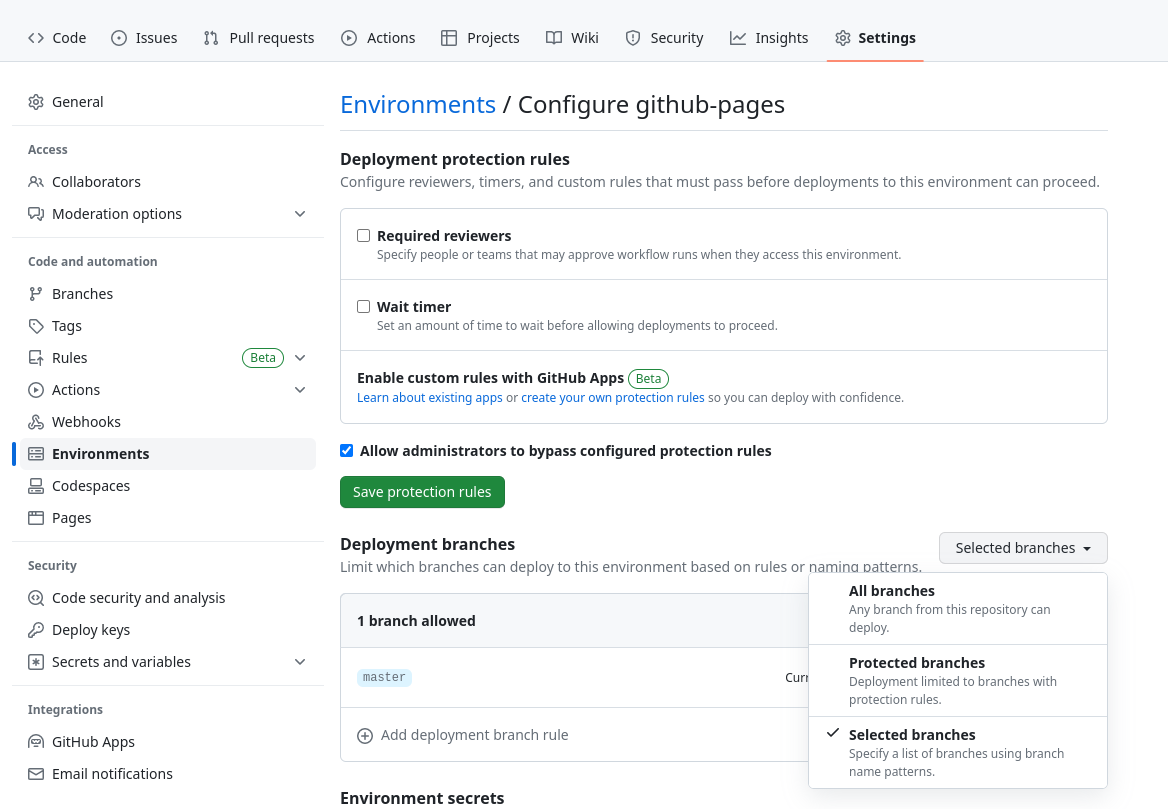
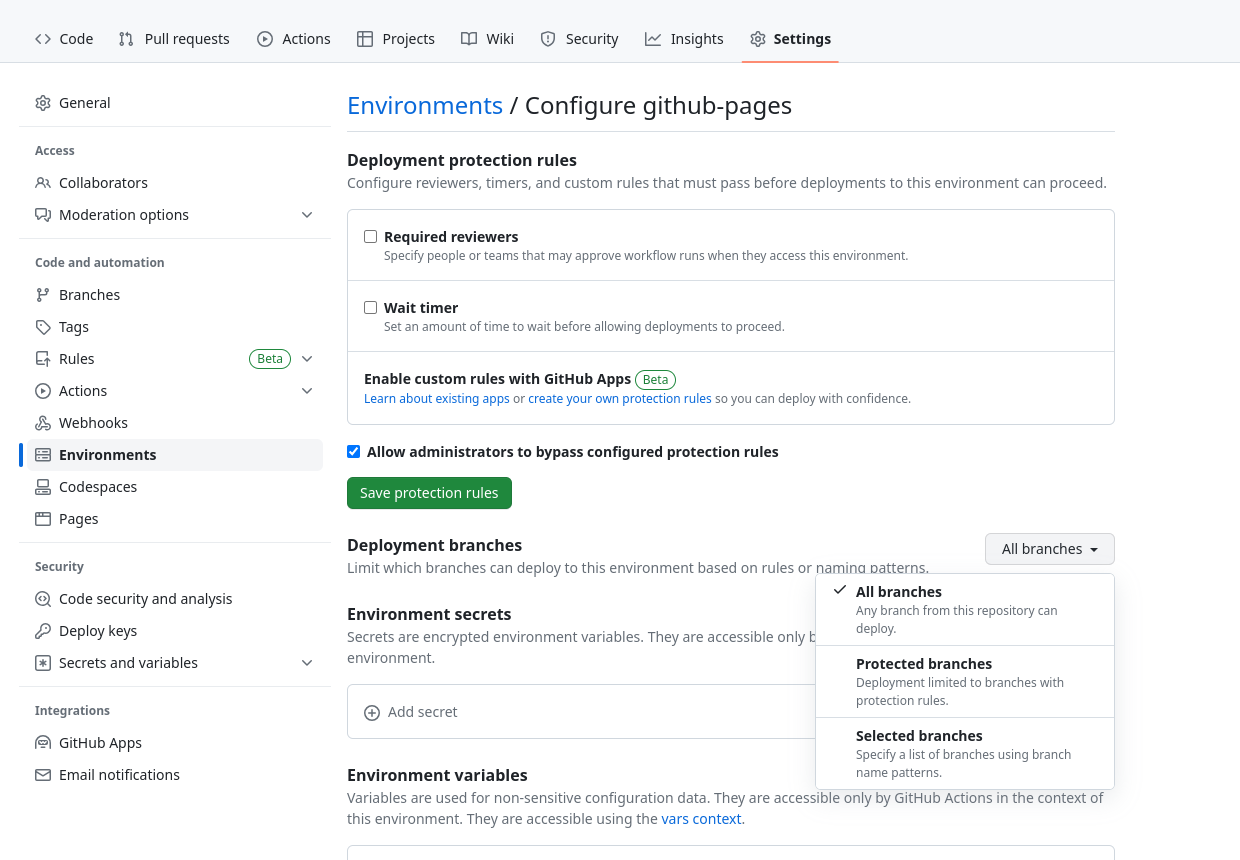
fixing the wording per PR comments...

diff --git a/faq/howto-author-hack.md b/faq/howto-author-hack.md
@@ -9,10 +9,10 @@ In essence a gHack needs to satisfy the following criteria.
 1. A gHack consists of **multiple, cumulative, hands-on challenges** building on top of each other
    > Think of a story consisting of multiple steps, starting with simple tasks and getting more advanced/detailed as the challenges progress. A gHack should provide value even if the participants don't get to solve all challenges.
 1. Challenges are small puzzles to be solved by participants **without step-by-step instructions, screenshots or any other copy/paste** content provided
-   > Solving the challenges means satisfying the *Success Criteria* described for the challenge. Remember there's no single golden path to solve these challenges, participants are free to come up with their own solutions as long as success criteria are met. The challenges shouldn't be trick questions as we don't want to frustrate participants. And finally, try to stay away from *coding from scratch* challenges, those are time consuming and don't provide too much value. Stick to configuring services (either through CLI, console, config files) or incomplete configuration/code sources (fix a trivial issue, add a single line to a file etc.)
-1. The gHack concept is **designed for teams**, the idea is solve the challenges as a team
-   > Although it's technically possible to do a gHack individually, we think that running those as teams provides the most value as the challenges require diverse set of skills so that people can also learn from each other. Make sure that during the event every participant gets to *drive* at least once.
-1. Every team needs to be **accompanied by a coach during the event**
+   > Solving the challenges means satisfying the *Success Criteria* described for the challenge. Remember there's no single golden path to solve these challenges, participants are free to come up with their own solutions as long as success criteria are met. The challenges shouldn't be trick questions as we don't want to frustrate participants. And finally, try to stay away from *coding from scratch* challenges, those are time consuming and don't provide much value. Stick to configuring services (either through the CLI, console, config files) or incomplete configuration/code sources (e.g. fix a trivial issue, add a single line to a file etc.)
+1. The gHack concept is **designed for teams**, the idea is solve the challenges together, as a team
+   > Although it's technically possible to do a gHack individually, we think that running those as teams provides the most value as the challenges require a diverse set of skills so that people can also learn from each other. Make sure that during the event every participant gets to *drive* at least once.
+1. Every team will be **accompanied by a coach** during the event
    > Sometimes teams might struggle to find the right solution; at those moments it's quite important to have someone who's done it before to give some hints, not the solution, but a direction, to prevent people from getting frustrated.
 
 ## Getting Started
@@ -88,7 +88,7 @@ The default configuration for Github Pages only works with the *main* branch. If
 
 ![Screenshot for environments](images/author-pages-environments.png)
 
-Now you can just either remove the protections, add specific branches or enable *Pages* for _All branches_.
+In the 'Deployment Branches' section, click the *Selected branches* dropdown and choose: *All branches*
 
 ![Screenshot for branch protection](images/author-pages-branch-protection.png)
 
@@ -110,7 +110,7 @@ Once everything is fine with your hack and you want to contribute to the origina
 ```shell
 git fetch upstream
 git switch new-iot-hack  # or main if you're not using branches
-git rebase upstream/main
+git rebase upstream main
 ```
 
 If you get any conflicts you'll need to resolve those and commit your changes. Then you can push your changes to your origin. Since rebasing changes the Git history, you will need to force push your changes. 
@@ -140,11 +140,11 @@ git pull --ff-only --prune upstream main
 If something goes wrong with rebasing (getting warnings about divergent set of commits), and you're confident that the remote is correct you can always reset to that. This typically happens if you've rebased things on the Github website, but your local doesn't have the rebased commits, you'll see that you're *n* commits behind and *m* commits ahead, and a message about the divergent set of commits. In that case try the following command
 
 ```shell
-git reset --hard origin/new-iot-hack  # or any other branch that you want to sync to
+git reset --hard origin new-iot-hack  # or any other branch that you want to sync to
 ```
 
 > **Warning**  
-> Here be dragons! Resetting your branch this way will remove all commits that you have locally on that branch, and will get whatever is in the remote branch. If that's the leading then fine, otherwise, you'll have to fix things first.
+> Here be dragons! Resetting your branch this way will remove all commits that you have locally on that branch, and will get whatever is in the remote branch. As long as that's what you want or need, resetting is fine.
 
 ## GCP Project Setup
 
@@ -152,17 +152,19 @@ Some hacks will need certain resources to be created in GCP projects, before the
 
 By default the scaffolding process creates empty placeholders for the Terraform configuration. You can edit those anyway you want to create the things required for your hack.
 
-We've documented how to use these Terraform scripts in [How to Setup Your Environment](howto-setup-environment.md).
+For the participants, we've documented how to use these Terraform scripts in [How to Setup Your Environment](howto-setup-environment.md) as that's part of the event.
 
 ### Customer Sandboxes
 
 Our preferred option for hosting gHacks is through sandbox projects provided by the customers. Every team should have their own dedicated sandbox project, with `Owner` permissions for every team member (3-5 users). Ideally, these projects should be set up ahead of the event, and *Terraform* scripts should've been run. In addition, having a default network, with standard firewall rules to allow communication within the subnets would make sure that things are consistent with other environments.
 
+See [Event Preparation](howto-host-hack.md#event-preparation) details to ensure that the everything is aligned with the stakeholders in a timely fashion.
+
 ### Qwiklabs
 
-As mentioned in the previous section we'd like gHacks to be executed in customer environments. That way the resources created can stay behind and people can carry on even after the event. However, we're aware of the challenges of getting sandboxes available at customers, so gHacks are supported on a special Qwiklabs instance.
+As mentioned in the previous section we'd like gHacks to be executed in customer environments. That way the resources created can stay behind and people can carry on even after the event. However, we're aware of the challenges of getting sandboxes available at customers, so gHacks are supported on a **special Qwiklabs instance** available on [go/ceqwiklabs](http://go/ceqwiklabs), where we can create our own labs and host events.
 
-By default when a gHack is included in the official repository a new Qwiklabs lab is created in the special Qwiklabs instance. 
+By default when a gHack is included in the official repository a new Qwiklabs lab is created in this special Qwiklabs instance. 
 
 If you don't need anything special, the default Qwiklabs lab configuration `qwiklabs.yaml`, provided by the scaffolding tool, should be sufficient. If you need to edit that file, make sure that you've read the document available on [go/ql-scripts](http://go/ql-scripts).
 
@@ -170,7 +172,8 @@ If you don't need anything special, the default Qwiklabs lab configuration `qwik
 
 The Terraform scripts in the `artifacts` directory of your hack will be automatically executed when the labs start.
 
-At the moment Qwiklabs only support Terraform **1.0.1**, so make sure that your Terraform configuration only uses capabilities available for that version. Note that you can still use the latest version of the GCP providers, this only applies to the Terraform version used.
+> **Warning**  
+> At the moment Qwiklabs only support Terraform **1.0.1**, so make sure that your Terraform configuration only uses capabilities available for that version. Note that you can still use the latest version of the GCP providers, this only applies to the Terraform version used.
 
 The Terraform configuration when used by Qwiklabs has some pre-requisites. You'll need to make sure that your configuration includes the following variables, even if you don't use them!
 
@@ -190,13 +193,18 @@ It's also possible to create labs directly in the special Qwiklabs instance to t
 
 ### Argolis
 
-You can't use Argolis projects for customers (unless you're doing an internal event and everybody uses their own Argolis organization) but you can certainly test your Terraform configuration in an Argolis project. We recommend to test things in a new project to make sure that things are reproducable. As you probably already know Argolis comes with a lot of restrictive organization policies, you might need to disable some of those before running your scripts.
+Using Argolis is a great choice when running an internal gHack for Google employees that have access to their own Argolis environment.
+
+In addition using your own Argolis environment is a great way to test your Terraform configuration during development. We recommend testing in a fresh Argolis project to make sure everything in your Terraform script gets created as expected.
+
+> **Note**  
+> Remember that Argolis projects by default use a lot of restrictive Org Policies. You might need to disable some of them before running your scripts. You can use the scripts from [this repository](https://github.com/gfilicetti/gcp-scripts) for that.
 
 ## The Anatomy of a gHack
 
 ### Files and Folders
 
-Now that you've run the `setup-newhack.sh` script above, this is the directory structure it creates and the template files within:
+Once you've run the `setup-newhack.sh` scaffolding script as mentioned previously, it will create this directory structure and template files within:
 
 ```
 hacks

diff --git a/faq/howto-setup-environment.md b/faq/howto-setup-environment.md
@@ -88,7 +88,7 @@ terraform output
 
 Qwiklabs provide isolated sandbox environments to run gHacks. In principle a sandbox environment will include a single Google Cloud Project configured for 5 users (students). The *Terraform* scripts from the *artifacts* directory are executed automatically when the lab is started, so the participants don't have to do that themselves.
 
-In order to get access to these environments, each team needs to pick **one** participant as the Team Lead to create an account on the special [Qwiklabs instance for gHacks](https://explore.qwiklabs.com), and provide the email address that's used to create that account to the Lead Coach, so that the account can be added to a _Classroom_. 
+In order to get access to these environments, each team will pick **one** participant as the _Team Lead_. The Team Lead will create an account on the special [Qwiklabs instance for gHacks](https://explore.qwiklabs.com). Once this is set up, the Lead Coach will add the Team Lead's email account to the created _Classroom_.
 
 ### Qwiklabs Instance
 

diff --git a/faq/howto-host-hack.md b/faq/howto-host-hack.md
@@ -86,7 +86,7 @@ It will require at least one person from the team to sign up for the gHacks Qwik
 
 > **Note** Even though the QwikLab will contain the same instructions, it's better to ignore that and use the gHacks [website](https://ghacks.dev) like the rest of the team (they won't have access to the lab, only to the GCP project, using the credentials shared by the person who signed up).
 
-In order to organize a gHack event with Qwiklabs, you'll need a _Classroom Template_ and a _Classroom_. You'll need *Authoring* permissions on the special Qwiklabs instance to creat those. Please follow the instructions on [go/ceqwiklabstraining](http://go/ceqwiklabstraining) to become an author. 
+In order to organize a gHack event with Qwiklabs, you'll need a _Classroom Template_ and a _Classroom_. You'll need *Authoring* permissions on the special Qwiklabs instance to create those. Please follow the instructions on [go/ceqwiklabstraining](http://go/ceqwiklabstraining) to become an author. 
 
 ##### Classroom Templates - One Time Only 
 
